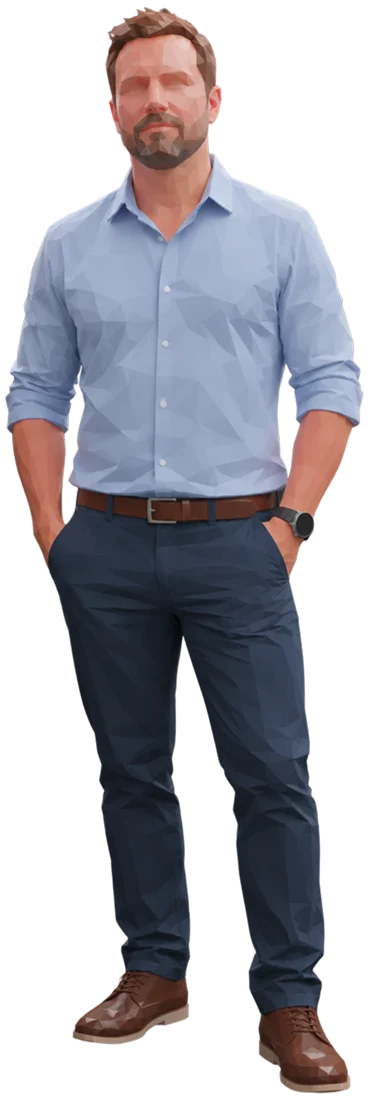
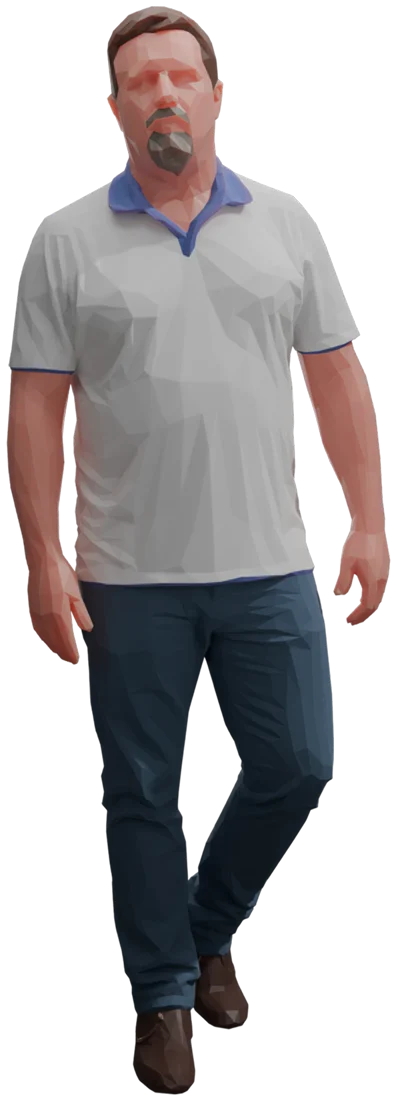
Spegeln: dag A/B/C per person och rätt bild på Ola och Tomas
Bredvid spegeln visas dagen för vald person (Dag A Ulrika – Människor
och möten, Dag B Ola – Produktion och press, Dag C Tomas – Förändring och
tempo) med beskrivning och Välj dag-knapp. Namnflikarna visar dagen.
Ola och Tomas har bytt bild.

Claude-Session: https://claude.ai/code/session_01Hseqa1impVEBojge5nFRvo

diff --git a/css/style.css b/css/style.css
@@ -381,9 +381,12 @@ button { font: inherit; color: inherit; }
 .panel.is-on > * { transform: none; }
 
 /* spegeln: karusell med spegelvända personer */
-.panel--mirror { align-content: center; justify-items: center; gap: 14px; padding-block: 72px 24px; }
+.panel--mirror { align-content: center; justify-items: center; gap: 18px; padding-block: 76px 24px; overflow-y: auto; }
+.mirror__head { display: flex; flex-direction: column; align-items: center; gap: 8px; text-align: center; }
+.mirror__sub { margin: 0; padding: 6px 14px; border-radius: 6px; background: rgba(14,20,14,.8); font-size: 16px; color: #e6ece3; }
+.mirror__stage { display: grid; grid-template-columns: auto minmax(0, 380px); grid-template-areas: "mirror info" "tabs info"; gap: 16px 56px; align-items: center; justify-items: center; }
 .mirror__prompt { margin: 0; padding: 10px 20px; border-radius: 8px; background: rgba(14,20,14,.8); font-size: clamp(22px, 2.6vw, 34px); }
-.mirror { position: relative; display: grid; place-items: center; }
+.mirror { grid-area: mirror; position: relative; display: grid; place-items: center; }
 .mirror__frame { --h: min(60vh, 560px); width: calc(var(--h) * .66); height: var(--h); padding: 12px; border-radius: 50% 50% 14px 14px / 28% 28% 14px 14px;
   background: linear-gradient(135deg, #eef2f5, #8e99a4 30%, #f6f8fa 52%, #7c8792 75%, #dfe5ea); box-shadow: 0 30px 70px rgba(0,0,0,.55), inset 0 0 0 1px rgba(255,255,255,.6); }
 .mirror__glass { position: relative; width: 100%; height: 100%; overflow: hidden; border-radius: inherit; cursor: grab; touch-action: pan-y;
@@ -407,24 +410,29 @@ button { font: inherit; color: inherit; }
 .mirror__nav svg { width: 24px; height: 24px; }
 .mirror__nav:hover { transform: scale(1.08); }
 .mirror__nav--prev { left: -72px; } .mirror__nav--next { right: -72px; }
-.mirror__tabs { display: flex; gap: 8px; padding: 6px; border-radius: 999px; background: rgba(14,20,14,.8); }
-.mirror__tab { display: inline-flex; align-items: center; gap: 8px; padding: 6px 14px 6px 6px; border-radius: 999px; border: 0; background: transparent; color: #dfe5dc; font: 600 15px/1 var(--font); cursor: pointer; }
+.mirror__tabs { grid-area: tabs; display: flex; gap: 8px; padding: 6px; border-radius: 999px; background: rgba(14,20,14,.8); }
+.mirror__tab { display: inline-flex; align-items: center; gap: 8px; padding: 5px 14px 5px 5px; text-align: left; line-height: 1.15; border-radius: 999px; border: 0; background: transparent; color: #dfe5dc; font: 600 15px/1 var(--font); cursor: pointer; }
 .mirror__tab[aria-selected="true"] { background: #fff; color: #142014; }
-.mirror__face { width: 30px; height: 30px; border-radius: 50%; background: #3f4f3e no-repeat 50% 4% / 260%; }
-.mirror__info { display: flex; align-items: center; gap: 18px; padding: 10px 10px 10px 20px; border-radius: 12px; background: rgba(14,20,14,.8); }
-.mirror__who { margin: 0; display: flex; flex-direction: column; gap: 2px; min-width: 170px; }
-.mirror__who strong { font-size: 18px; }
-.mirror__who span { font-size: 14px; color: #d3dad0; }
-.mirror__pick.opt { flex: none; min-height: 52px; padding: 12px 24px; }
+.mirror__tab small { display: block; font: 500 11.5px/1.2 var(--mono); letter-spacing: .06em; opacity: .85; }
+.mirror__face { flex: none; width: 34px; height: 34px; border-radius: 50%; background: #3f4f3e no-repeat 50% 4% / 260%; }
+.mirror__info { display: flex; flex-direction: column; gap: 10px; padding: 28px 28px 24px; border-radius: 4px; background: rgba(14,20,14,.86); border-top: 3px solid var(--accent); }
+.mirror__day { margin: 0; font: 500 13px/1 var(--mono); letter-spacing: .14em; text-transform: uppercase; color: #9fe3a0; }
+.mirror__theme { margin: 0; font: 700 clamp(24px, 2.4vw, 30px)/1.15 var(--font); color: #fff; text-wrap: balance; }
+.mirror__who { margin: 0; font-size: 15px; font-weight: 600; color: #d3dad0; }
+.mirror__desc { margin: 2px 0 8px; font-size: 16px; line-height: 1.6; color: #e6ece3; min-height: 7.5em; }
+.mirror__pick.opt { flex: none; min-height: 52px; padding: 12px 24px; align-self: stretch; }
 .panel--mirror.is-picked .mirror__slide.is-center { transform: translateX(-50%) scale(1.04); filter: brightness(1.15); }
 .panel--mirror.is-picked .mirror__sheen { animation: sheenFlash .9s ease; }
 @keyframes sheenFlash { 40% { background-color: rgba(255,255,255,.25); } }
 @media (max-width: 720px) {
   .panel--mirror { padding-block: 64px 16px; gap: 10px; }
-  .mirror__frame { --h: min(50vh, 440px); }
   .mirror__nav { width: 44px; height: 44px; margin-top: -22px; }
   .mirror__nav--prev { left: -8px; } .mirror__nav--next { right: -8px; }
-  .mirror__info { flex-direction: column; align-items: stretch; text-align: center; gap: 8px; padding: 12px; }
+  .mirror__stage { grid-template-columns: 1fr; grid-template-areas: "mirror" "tabs" "info"; gap: 12px; }
+  .mirror__frame { --h: min(42vh, 380px); }
+  .mirror__info { padding: 18px; gap: 8px; }
+  .mirror__desc { min-height: 0; font-size: 15px; }
+  .panel--mirror { align-content: start; }
   .mirror__tab { padding-right: 10px; font-size: 14px; }
 }
 

diff --git a/js/app.js b/js/app.js
@@ -645,12 +645,13 @@
 
     /* Spegeln: svepa mellan tre personer. Den i mitten står spegelvänd i glaset,
        de två andra syns vid sidorna så att det är tydligt att det finns tre. */
-    personaPick(personas, prompt) {
+    personaPick(personas, prompt, sub) {
       return new Promise((resolve) => {
         let cur = Math.max(0, personas.findIndex((x) => x.id === 'ola'));
         const n = personas.length;
         const p = api.panel('panel--mirror', `
-          <h2 class="mirror__prompt" id="mirrorQ">${prompt}</h2>
+          <div class="mirror__head"><h2 class="mirror__prompt" id="mirrorQ">${prompt}</h2>${sub ? `<p class="mirror__sub">${sub}</p>` : ''}</div>
+          <div class="mirror__stage">
           <div class="mirror" role="group" aria-roledescription="karusell" aria-labelledby="mirrorQ">
             <div class="mirror__frame">
               <div class="mirror__glass" tabindex="0" aria-label="Svep eller använd piltangenterna för att byta person">
@@ -664,11 +665,15 @@
             <button class="mirror__nav mirror__nav--next" aria-label="Nästa person"><svg viewBox="0 0 24 24" aria-hidden="true"><path d="M9 5l7 7-7 7" fill="none" stroke="currentColor" stroke-width="2.4" stroke-linecap="round" stroke-linejoin="round"/></svg></button>
           </div>
           <div class="mirror__tabs" role="tablist" aria-label="Personer">${personas.map((x, k) => `
-            <button class="mirror__tab" role="tab" data-i="${k}"><span class="mirror__face" style="background-image:url(${x.img})"></span>${x.name}</button>`).join('')}
+            <button class="mirror__tab" role="tab" data-i="${k}"><span class="mirror__face" style="background-image:url(${x.img})"></span><span><small>Dag ${x.day}</small>${x.name}</span></button>`).join('')}
           </div>
-          <div class="mirror__info" aria-live="polite">
+          <article class="mirror__info" aria-live="polite">
+            <p class="mirror__day"></p>
+            <h3 class="mirror__theme"></h3>
             <p class="mirror__who"></p>
+            <p class="mirror__desc"></p>
             <button class="opt mirror__pick"></button>
+          </article>
           </div>`);
         const slides = $$('.mirror__slide', p), tabs = $$('.mirror__tab', p), track = $('.mirror__track', p);
         const sync = () => {
@@ -680,8 +685,11 @@
           });
           tabs.forEach((t, k) => { t.setAttribute('aria-selected', String(k === cur)); t.tabIndex = k === cur ? 0 : -1; });
           const x = personas[cur];
-          $('.mirror__who', p).innerHTML = `<strong>${x.name}, ${x.age} år</strong><span>${x.role}</span>`;
-          $('.mirror__pick', p).textContent = `Välj ${x.name}`;
+          $('.mirror__day', p).textContent = `Dag ${x.day}`;
+          $('.mirror__theme', p).textContent = x.theme;
+          $('.mirror__who', p).textContent = `${x.name}, ${x.age} år · ${x.role}`;
+          $('.mirror__desc', p).textContent = x.desc;
+          $('.mirror__pick', p).textContent = `Välj dag ${x.day}`;
         };
         const go = (k) => { cur = (k + n) % n; SFX.play('hover'); sync(); };
         $('.mirror__nav--prev', p).addEventListener('click', () => go(cur - 1));

diff --git a/js/story.js b/js/story.js
@@ -26,9 +26,15 @@ const STORY = {
   title: 'Produktion och press',
 
   personas: [
-    { id: 'tomas',  name: 'Tomas',  age: 54, role: 'Sitemanager',     pronoun: 'han', img: 'assets/people/tomas.webp' },
-    { id: 'ola',    name: 'Ola',    age: 42, role: 'Produktionschef', pronoun: 'han', img: 'assets/people/ola.webp' },
-    { id: 'ulrika', name: 'Ulrika', age: 47, role: 'Utvecklingschef', pronoun: 'hon', img: 'assets/people/ulrika.webp' },
+    { id: 'ulrika', name: 'Ulrika', age: 47, role: 'Utvecklingschef', pronoun: 'hon', img: 'assets/people/ulrika.webp',
+      day: 'A', theme: 'Människor och möten',
+      desc: 'Du leder ett team där det mesta händer i möten, i korridoren och i samtalen däremellan. Din dag formas av relationer, förväntningar och sådant som sällan syns i ett schema. Det som kräver mest av dig är sällan det som står på agendan.' },
+    { id: 'ola', name: 'Ola', age: 42, role: 'Produktionschef', pronoun: 'han', img: 'assets/people/ola.webp',
+      day: 'B', theme: 'Produktion och press',
+      desc: 'Du ansvarar för en verksamhet som inte får stanna. Dagen styrs av produktion, problem och beslut som behöver fattas nu. Du vet vad som krävs för att hålla ihop ett team under press – och du vet hur snabbt det kan gå åt fel håll.' },
+    { id: 'tomas', name: 'Tomas', age: 54, role: 'Sitemanager', pronoun: 'han', img: 'assets/people/tomas.webp',
+      day: 'C', theme: 'Förändring och tempo',
+      desc: 'Du jobbar i miljöer som förändras. Teamet, platsen, förutsättningarna – ingenting är helt förutsägbart. Du är van vid att lösa saker på plats och ta ansvar långt utanför det du direkt kontrollerar.' },
   ],
 
   nodes: [
@@ -81,7 +87,7 @@ const STORY = {
         api.clock('06:20');
         await api.title('06:20', 'Framför spegeln');
         await api.say('Du tänker igenom hur dagen ser ut… och gör ett val utifrån det.', { narrator: true });
-        const who = await api.personaPick(STORY.personas, 'Vem ser du i spegeln?');
+        const who = await api.personaPick(STORY.personas, 'Vem ser du i spegeln?', 'Välj den dag som är mest lik din egen arbetsdag.');
         api.state.persona = who;
         api.setPersona(STORY.personas.find((p) => p.id === who));
         await api.agenda([
